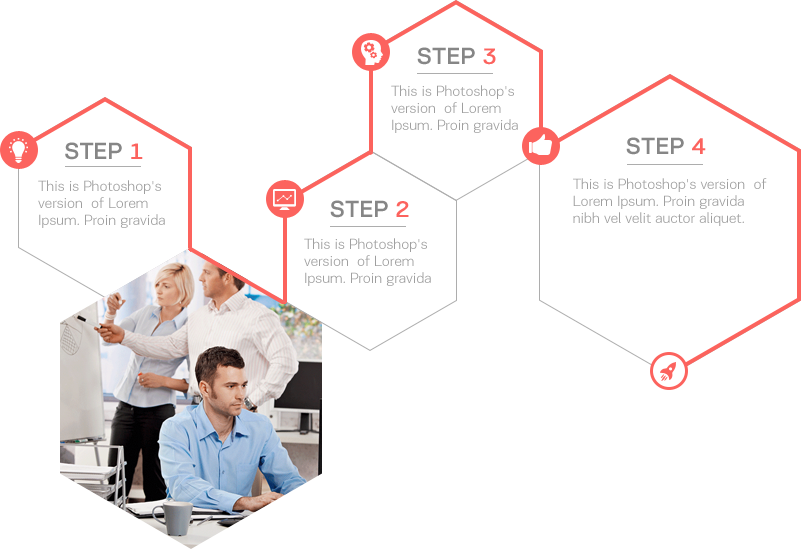
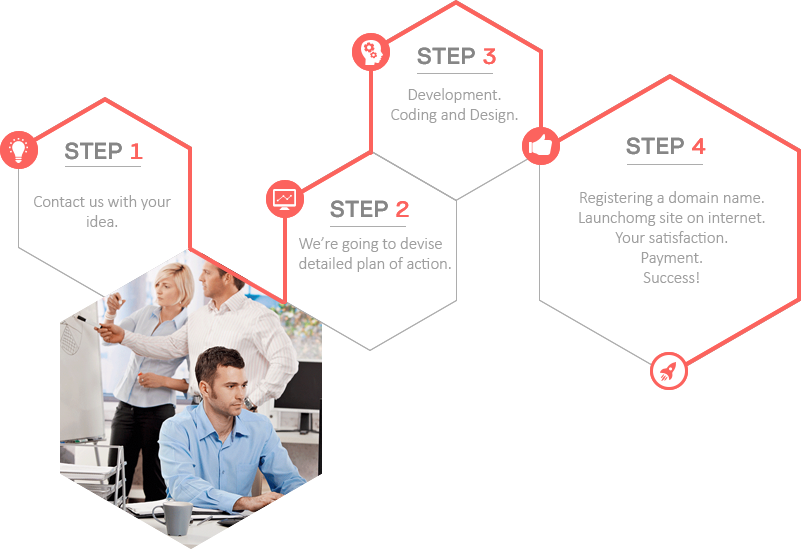
ko zna sta sve

diff --git a/files/style/style.css b/files/style/style.css
@@ -5,6 +5,7 @@ License: Creative Commons Attribution 3.0 Unported
 License URL: http://creativecommons.org/licenses/by/3.0/
 --*/
 /*--- importing-fonts -----*/
+
 @font-face {
     font-family: 'open_sanssemibold';
     src: url('../fonts/opensans_semibold_macroman/OpenSans-Semibold-webfont.eot');
@@ -66,6 +67,9 @@ body a{
 	-o-transition:0.5s all;
 	-ms-transition:0.5s all;
 }
+
+
+
 /*-----start-header----*/
 .bg{
 	background: url(../images/bg.jpg) no-repeat 0px 0px;
@@ -260,7 +264,7 @@ nav a#pull {
 .header-info h1 label{
 	color:#FC645F;
 }
-.header-info p{
+.header-info p, .header-info h3{
 	color: #fff;
 	margin: 0;
 	font-size: 1.4em;
@@ -1857,11 +1861,10 @@ p.copy-right a:hover{
 	box-shadow: 0 1px 1px 0 rgba(0, 0, 0, 0.12);
 	box-sizing: border-box;
 	width: 100%;
-	font: bold 16px sans-serif;
+
 	text-align: left;
 
-	padding: 50px 60px 40px;
-	margin-top: 80px;
+	padding: 30px 40px 20px;
 	overflow: hidden;
 }
 
@@ -1934,12 +1937,7 @@ p.copy-right a:hover{
 	float: right;
 }
 
-.footer-distributed .footer-right p{
-	display: inline-block;
-	vertical-align: top;
-	margin: 15px 42px 0 0;
-	color: #ffffff;
-}
+
 
 /* The contact form */
 
@@ -1963,7 +1961,6 @@ p.copy-right a:hover{
 	color:  #d1d2d2;
 
 	width: 400px;
-	padding: 18px;
 }
 
 .footer-distributed ::-webkit-input-placeholder {
@@ -1981,8 +1978,8 @@ p.copy-right a:hover{
 
 
 .footer-distributed form input{
-	height: 55px;
-	margin-bottom: 15px;
+
+
 }
 
 .footer-distributed form textarea{
@@ -2008,9 +2005,14 @@ p.copy-right a:hover{
 		font: bold 14px sans-serif;
 	}
 
-	.footer-distributed .footer-company-name{
+	.footer-distributed .footer-company-name {
 		font-size: 12px;
+
 	}
+
+  .nopadding {
+    padding: 0 !important;
+  }
 
 	.footer-distributed form input,
 	.footer-distributed form textarea{

diff --git a/files/js/ajax.js b/files/js/ajax.js
@@ -18,7 +18,7 @@ $(document).ready(function() {
   })
   .done(function(data) {
     //console.log("success");
-    
+
   $("#feedback").html(data);
 
   })
@@ -30,4 +30,10 @@ $(document).ready(function() {
   });
 
 }
+
+$(document).$.ajaxStart(function() {
+  
+});
+
+
 });

diff --git a/files/style/core.css b/files/style/core.css
@@ -1,0 +1,3 @@
+.error-template {padding: 40px 15px;text-align: center;}
+.error-actions {margin-top:15px;margin-bottom:15px;}
+.error-actions .btn { margin-right:10px; }

diff --git a/app/Views/portfolio.php b/app/Views/portfolio.php
@@ -11,45 +11,11 @@
 					<div class="portfolio logo1 mix_all port-big-grid" data-cat="logo" style="display: inline-block; opacity: 1;">
 						<div class="portfolio-wrapper">
 							<a data-toggle="modal" data-target=".bs-example-modal-md" href="<?php echo BASE_URL; ?>files/images/p2.jpg" class="b-link-stripe b-animate-go  thickbox swipebox">
-						     <img class="p-img" src="<?php echo BASE_URL; ?>files/images/p2.jpg" /><div class="b-wrapper"><h2 class="b-animate b-from-left    b-delay03 "><img src="<?php echo BASE_URL; ?>files/images/link-ico.png" alt=""/></h2>
+						     <img alt="slika" class="p-img" src="<?php echo BASE_URL; ?>files/images/p2.jpg" /><div class="b-wrapper"><h2 class="b-animate b-from-left    b-delay03 "><img src="<?php echo BASE_URL; ?>files/images/link-ico.png" alt="plus"/></h2>
 						  	</div></a>
 		                </div>
 					</div>
-					<div class="portfolio app mix_all" data-cat="app" style="display: inline-block; opacity: 1;">
-						<div class="portfolio-wrapper">
-							<a data-toggle="modal" data-target=".bs-example-modal-md" href="<?php echo BASE_URL; ?>files/images/p3.jpg" class="b-link-stripe b-animate-go  thickbox swipebox">
-						     <img class="p-img" src="<?php echo BASE_URL; ?>files/images/p3.jpg" /><div class="b-wrapper"><h2 class="b-animate b-from-left    b-delay03 "><img src="<?php echo BASE_URL; ?>files/images/link-ico.png" alt=""/></h2>
-						  	</div></a>
-		                </div>
-					</div>
-					<div class="portfolio web mix_all" data-cat="web" style="display: inline-block; opacity: 1;">
-						<div class="portfolio-wrapper">
-							<a data-toggle="modal" data-target=".bs-example-modal-md" href="<?php echo BASE_URL; ?>files/images/p4.jpg" class="b-link-stripe b-animate-go  thickbox swipebox">
-						     <img class="p-img" src="<?php echo BASE_URL; ?>files/images/p4.jpg" /><div class="b-wrapper"><h2 class="b-animate b-from-left    b-delay03 "><img src="<?php echo BASE_URL; ?>files/images/link-ico.png" alt=""/></h2>
-						  	</div></a>
-		                </div>
-					</div>
-					<div class="portfolio icon mix_all" data-cat="icon" style="display: inline-block; opacity: 1;">
-						<div class="portfolio-wrapper">
-							<a data-toggle="modal" data-target=".bs-example-modal-md" href="<?php echo BASE_URL; ?>files/images/p1.jpg" class="b-link-stripe b-animate-go  thickbox swipebox">
-						     <img class="p-img" src="<?php echo BASE_URL; ?>files/images/p1.jpg" /><div class="b-wrapper"><h2 class="b-animate b-from-left    b-delay03 "><img src="<?php echo BASE_URL; ?>files/images/link-ico.png" alt=""/></h2>
-						  	</div></a>
-		                </div>
-					</div>
-					<div class="portfolio app mix_all" data-cat="app" style="display: inline-block; opacity: 1;">
-						<div class="portfolio-wrapper">
-							<a data-toggle="modal" data-target=".bs-example-modal-md" href="<?php echo BASE_URL; ?>files/images/p5.jpg" class="b-link-stripe b-animate-go  thickbox swipebox">
-						     <img class="p-img" src="<?php echo BASE_URL; ?>files/images/p5.jpg" /><div class="b-wrapper"><h2 class="b-animate b-from-left    b-delay03 "><img src="<?php echo BASE_URL; ?>files/images/link-ico.png" alt=""/></h2>
-						  	</div></a>
-		                </div>
-					</div>
-					<div class="portfolio card mix_all" data-cat="card" style="display: inline-block; opacity: 1;">
-						<div class="portfolio-wrapper">
-							<a data-toggle="modal" data-target=".bs-example-modal-md" href="<?php echo BASE_URL; ?>files/images/p6.jpg" class="b-link-stripe b-animate-go  thickbox swipebox">
-						     <img class="p-img" src="<?php echo BASE_URL; ?>files/images/p6.jpg" /><div class="b-wrapper"><h2 class="b-animate b-from-left    b-delay03 "><img src="<?php echo BASE_URL; ?>files/images/link-ico.png" alt=""/></h2>
-						  	</div></a>
-		                </div>
-					</div>
+
 					<div class="clearfix"> </div>
 					<a class="load-ports" href="#">Request Project</a>
 				</div>

diff --git a/app/Views/about.php b/app/Views/about.php
@@ -3,7 +3,6 @@
   <div class="container">
     <div class="about-head text-center">
       <h3>What do <span>we offer?</span></h3>
-      <p>Daisy is sagittis sem nibh id elit. Duis sed odio sit amet nibh vulputate cursus a sit amet mauris. Morbi accumsan ipsum</p>
     </div>
     <!--- about-grids ---->
     <div class="about-grids">
@@ -11,28 +10,28 @@
         <div class="about-grid text-center">
             <span class="about-icon3"><i class="fa fa-firefox fa-5x"></i></span>
           <h3>WEB APPS<br /><label> </label></h3>
-          <p>This is Photoshop's version  of Lorem Ipsum. Proin gravida nibh vel velit auctor aliquet. Aenean</p>
+          <p>Broad spectrum of web based applications, from simple presentation to complex web portals.</p>
         </div>
       </div>
       <div class="col-md-3">
         <div class="about-grid text-center">
             <span class="about-icon3"><i class="fa fa-desktop fa-5x"></i></span>
           <h3>DESKTOP APPS<br /><label> </label></h3>
-          <p>This is Photoshop's version  of Lorem Ipsum. Proin gravida nibh vel velit auctor aliquet. Aenean</p>
+          <p>Bussiness oriented desktop applications.</p>
         </div>
       </div>
       <div class="col-md-3">
         <div class="about-grid text-center">
           <span class="about-icon3"><i class="fa fa-cog fa-5x"></i></span>
           <h3>SEO OPTIMIZATION<br /><label> </label></h3>
-          <p>This is Photoshop's version  of Lorem Ipsum. Proin gravida nibh vel velit auctor aliquet. Aenean</p>
+          <p>Tweaking existing websites to help them get rank better on search engines and improve traffic.</p>
         </div>
       </div>
       <div class="col-md-3">
         <div class="about-grid text-center">
             <span class="about-icon3"><i class="fa fa-database fa-5x"></i></span>
           <h3>DATABASE ADM<br /><label> </label></h3>
-          <p>This is Photoshop's version  of Lorem Ipsum. Proin gravida nibh vel velit auctor aliquet. Aenean</p>
+          <p>Optimizing large databases in order to improve query performance and reduce redundancy.</p>
         </div>
       </div>
       <div class="clearfix"> </div>

diff --git a/app/Views/head.php b/app/Views/head.php
@@ -1,13 +1,22 @@
 <!DOCTYPE HTML>
-<html>
+<html lang="en">
 	<head>
-		<title>roughlyCoding | Welcome</title>
+		<title>roughlyCoding | Software development</title>
+		<meta name="description" content="roughlyCoding.rs is a software company primary dedicated to web and desktop applications, database and SEO optimization.">
+		<meta name="author" content="Luka Lukic">
+		<meta http-equiv="Content-Type" content="text/html; charset=utf-8" />
+		<meta name="keywords" content="Website, Software, Development, Desktop, roughlyCoding, Database, SEO, Web" />
+		<meta http-equiv="X-UA-Compatible" content="IE=edge">
+		<meta name="Robots" content="index,follow">
+		<meta name=viewport content="width=device-width, initial-scale=1">
+		<!-- Styles -->
 		<link href="<?php echo BASE_URL; ?>vendor/components/bootstrap/css/bootstrap.min.css" rel='stylesheet' type='text/css' />
 		<link href="<?php echo BASE_URL; ?>vendor/components/font-awesome/css/font-awesome.min.css" rel='stylesheet' type='text/css' />
 		<!-- jQuery (necessary for Bootstrap's JavaScript plugins) -->
 		<script src="<?php echo BASE_URL; ?>vendor/components/jquery/jquery.min.js"></script>
 		 <!-- Custom Theme files -->
 		<link href="<?php echo BASE_URL; ?>files/style/style.css" rel='stylesheet' type='text/css' />
+		<link rel="shortcut icon" href="<?php echo BASE_URL ?>files/images/favicon.png" />
    		 <!-- Custom Theme files -->
    		  <!---- start-smoth-scrolling---->
 		<script type="text/javascript" src="<?php echo BASE_URL; ?>files/js/move-top.js"></script>
@@ -43,5 +52,14 @@
 			});
 		</script>
 		<!----//End-top-nav-script---->
+		<script>
+		  (function(i,s,o,g,r,a,m){i['GoogleAnalyticsObject']=r;i[r]=i[r]||function(){
+		  (i[r].q=i[r].q||[]).push(arguments)},i[r].l=1*new Date();a=s.createElement(o),
+		  m=s.getElementsByTagName(o)[0];a.async=1;a.src=g;m.parentNode.insertBefore(a,m)
+		  })(window,document,'script','https://www.google-analytics.com/analytics.js','ga');
 
+		  ga('create', 'UA-103595915-1', 'auto');
+		  ga('send', 'pageview');
+
+		</script>
 	</head>

diff --git a/app/Views/header.php b/app/Views/header.php
@@ -16,7 +16,7 @@
 								<li><a href="#team" class="scroll">team</a></li>
 								<li><a href="#contact" class="scroll">Contact</a></li>
 							</ul>
-							<a href="#" id="pull"><img src="<?php echo BASE_URL; ?>files/images/nav-icon.png" title="menu" /></a>
+							<a href="#" id="pull"><img src="<?php echo BASE_URL; ?>files/images/nav-icon.png" alt="navigation" title="menu" /></a>
 						</nav>
 						<div class="clearfix"> </div>
 					</div>
@@ -27,7 +27,7 @@
 			<div class="header-info text-center">
 				<div class="container">
 					<h1><span> </span><label>we make SOFTWARE</label> <span> </span></h1>
-					<p>That makes Your bussiness grow.</p>
+					<h3>That makes Your bussiness grow.</h3>
 					<a class="big-btn" href="#">Contact us</a>
 					<a class="down-arrow down-arrow-to scroll" href="#about"><span> </span></a>
 					<label class="mouse-divice"> </label>

diff --git a/app/Views/middle.php b/app/Views/middle.php
@@ -15,10 +15,10 @@
   <div class="container">
     <div class="about-head text-center">
       <h3>our <span>process</span></h3>
-      <p>Daisy is sagittis sem nibh id elit. Duis sed odio sit amet nibh vulputate cursus a sit amet mauris. Morbi accumsan ipsum</p>
+      <p>We believe that clear communication is key to successfull cooperation. Here are the steps we take working on Your project.</p>
     </div>
     <div class="process-grid text-center">
-      <img src="<?php echo BASE_URL; ?>files/images/process.png" title="process" />
+      <img src="<?php echo BASE_URL; ?>files/images/process.png" alt="project progress" title="process" />
       <a class="p-down-arrow down-arrow-to scroll" href="#wedo"><span> </span></a>
     </div>
   </div>

diff --git a/app/Views/team.php b/app/Views/team.php
@@ -10,7 +10,7 @@
         <?php foreach ($team_members as $key => $value):?>
           <div class="col-md-4">
             <div class="team-member">
-              <img src="<?php echo BASE_URL; ?>files/images/<?php echo $value->picture; ?>" class=" img-thumbnail" height="200" title="<?php echo $value->alt; ?>" />
+              <img src="<?php echo BASE_URL; ?>files/images/<?php echo $value->picture; ?>" class=" img-thumbnail" height="200" title="<?php echo $value->firstName; ?>" alt="<?php echo $value->alt; ?>" />
               <h5><span><?php  echo $value->firstName; ?> </span><?php  echo $value->lastName; ?></h5>
               <label><?php  echo $value->position; ?></label>
               <ul class="unstyled-list">

diff --git a/app/Views/footer.php b/app/Views/footer.php
@@ -2,13 +2,16 @@
      <div class="container">
 
 
-			<div class="footer-left">
+			<div class="footer-left col-md-6">
 
-				<h3>roughy<span>Coding</span></h3>
+        <div class="logo">
+          <p class="lead"><a href="<?php echo BASE_URL; ?>"><span>roughly</span><span>Coding.rs</span></a></p>
+        </div>
 
+          <p class="footer-company-name col-md-12">
 
+          roughyCoding 2017 | &copy; All Rights Reserved </p>
 
-				<p class="footer-company-name">roughyCoding &copy; 2017</p>
 
 
 
@@ -16,7 +19,7 @@
 
 			<div class="footer-right">
 
-				<p>Contact Us</p>
+				<p class='text-danger'>Contact Us</p>
 
 				<form class="" action="index.html" method="post">
             	 <div class="form-group">

diff --git a/app/Views/wellcome.php b/app/Views/wellcome.php
@@ -2,11 +2,7 @@
 <html>
 <head>
   <title>Wellcome</title>
-<style media="screen">
-.error-template {padding: 300px 15px;text-align: center;}
-.error-actions {margin-top:15px;margin-bottom:15px;}
-.error-actions .btn { margin-right:10px; }
-</style>
+<link rel="stylesheet" href="<?php echo BASE_URL ?>files/style/core.css">
 <link rel="stylesheet" href="<?php echo BASE_URL; ?>vendor/components/bootstrap/css/bootstrap.css" media="screen">
 <link rel="stylesheet" href="<?php echo BASE_URL; ?>vendor/components/font-awesome/css/font-awesome.css" media="screen">
 </link>

diff --git a/system/Errors/403.php b/system/Errors/403.php
@@ -3,11 +3,7 @@
 <html>
 <head>
   <title>403</title>
-<style media="screen">
-.error-template {padding: 40px 15px;text-align: center;}
-.error-actions {margin-top:15px;margin-bottom:15px;}
-.error-actions .btn { margin-right:10px; }
-</style>
+<link rel="stylesheet" href="<?php echo BASE_URL ?>files/style/core.css">
 <link rel="stylesheet" href="<?php echo BASE_URL; ?>vendor/components/bootstrap/css/bootstrap.css" media="screen">
 <link rel="stylesheet" href="<?php echo BASE_URL; ?>vendor/components/font-awesome/css/font-awesome.css" media="screen">
 </link>
